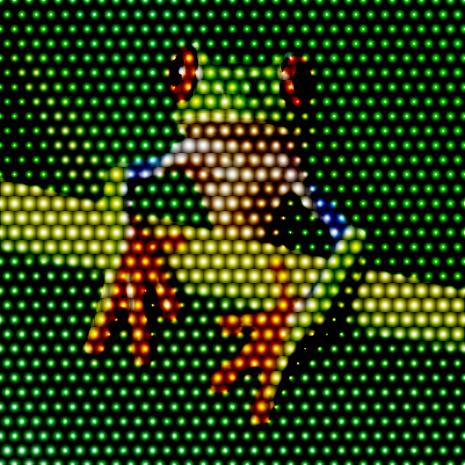
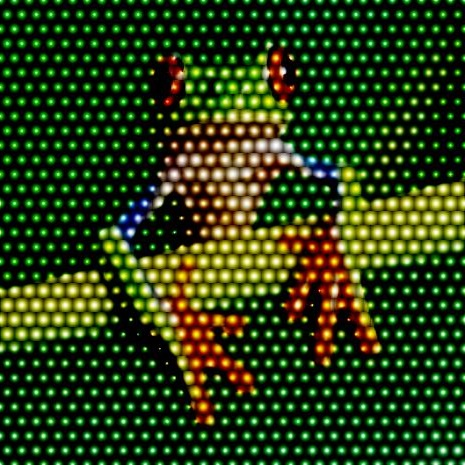
GLSL で画像にフィルタをかけてみるテスト（改3）

diff --git a/cx20/eosM/index.html b/cx20/eosM/index.html
@@ -24,8 +24,8 @@ varying vec4 vColor;
 varying vec2 vTextureCoord;
 
 void main(void) {
-    vec2 uv = gl_FragCoord.xy / resolution.xy;
-    vec3 rgb = texture2D(texture, -uv).rgb;
+    vec2 uv = vTextureCoord; // gl_FragCoord.xy / resolution.xy;
+    vec3 rgb = texture2D(texture, uv).rgb;
     uv = gl_FragCoord.xy / resolution.y;
     uv.x -= .5 * floor(mod(32. * uv.y + .5, 2.)) / 32.;
     vec2 uv0 = floor(uv * 32. + .5) / 32.;
